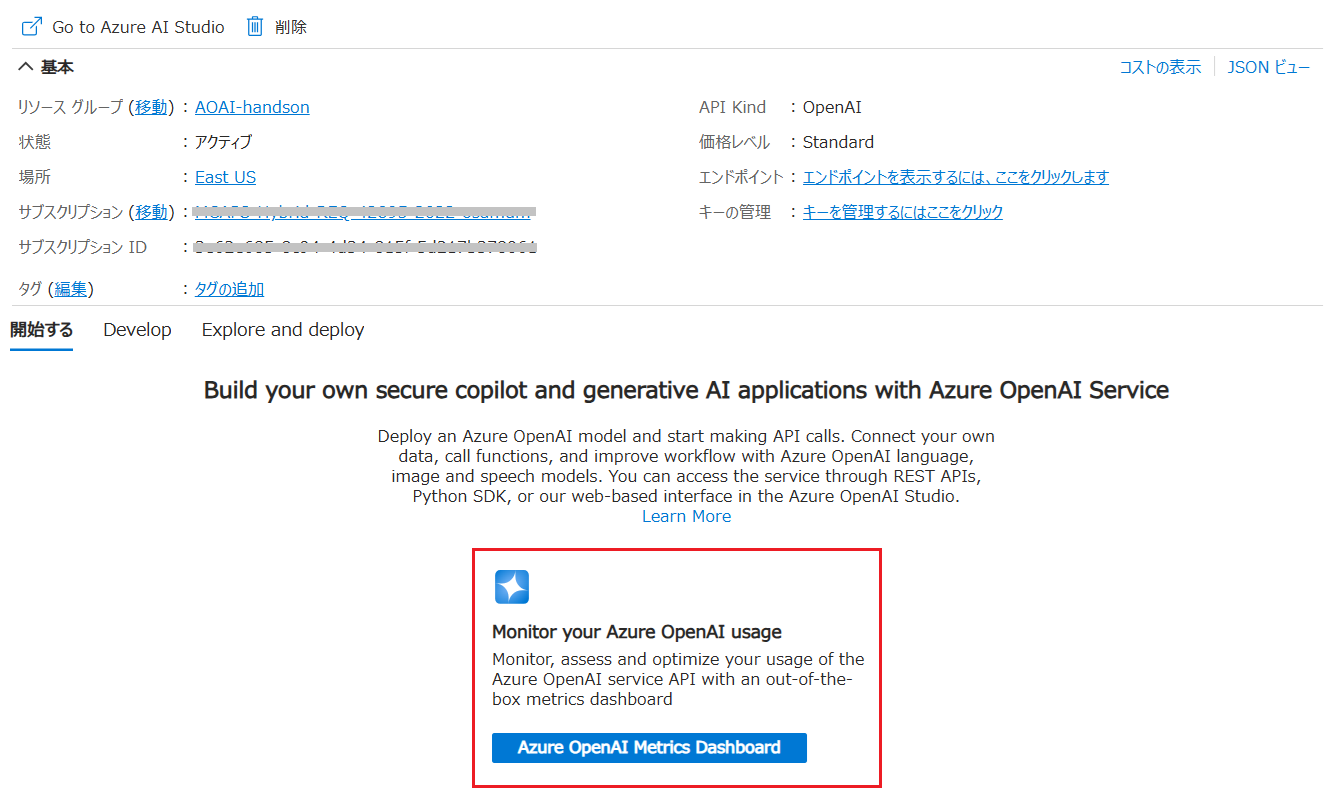
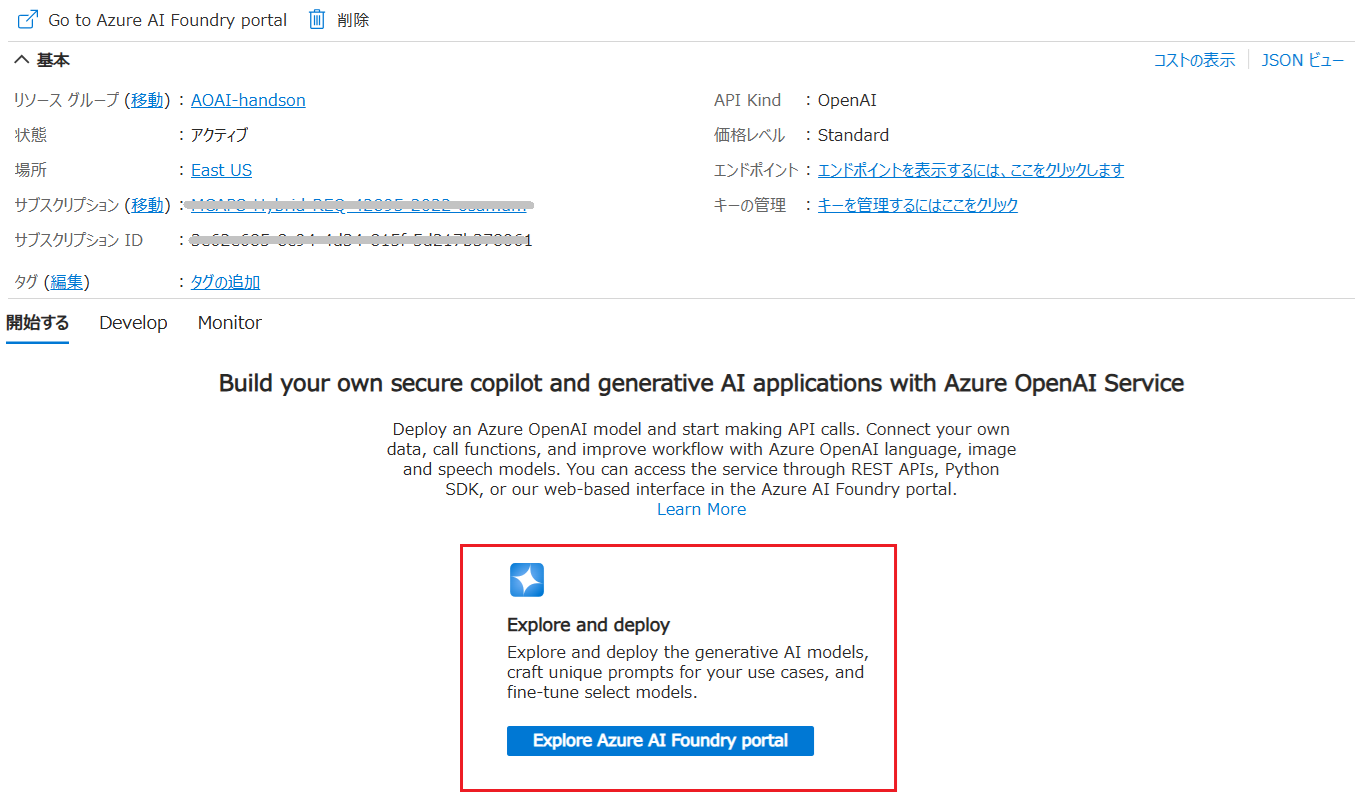
add deploy gpt-image-1

diff --git a/Ex01-4_gpt-image.md b/Ex01-4_gpt-image.md
@@ -1,0 +1,110 @@
+# 演習 1. 4 :  画像生成モデル gpt-image-1 のデプロイ
+
+Microsoft Azure では [演習 1. 4 : 画像生成モデルのデプロイ](Ex01-4.md) でデプロイした DALL-E 3 モデルよりも新しい GPT-image-1 モデルがプレビュー利用可能になっています。
+
+このモデルは  DALL-E に対して以下の点が[改善](https://azure.microsoft.com/en-us/blog/unveiling-gpt-image-1-rising-to-new-heights-with-image-generation-in-azure-ai-foundry/)されています。
+
+* 正確な指示に応答する能力が向上
+* テキストを確実にレンダリング
+* テキストだけでなく画像を入力として指定して編集と描画が可能
+
+使用するには以下のフォームより利用申請が必要です。(※2025 年 5 月時点)
+
+* アクセスの要求: [**制限付きアクセス モデル アプリケーション**](https://aka.ms/oai/gptimage1access)
+
+<br>
+
+## 1. GPT-image-1 モデルのデプロイ 
+
+Azure AI Foundry の画面で画像生成モデル GPT-image-1 デプロイし、API の利用に必要となる API キーとエンドポイントを取得します。
+
+
+
+具体的な手順は以下のとおりです。
+
+\[**手順**\]
+
+1. [Azure AI Foundry](https://ai.azure.com/resource/deployments/) の画面左のメニューバーから \[**デプロイ**\] をクリックします
+
+    ![AOAI Stuido Deploy menue](images/AOAIStudio_menue_Deploy.png)
+
+2. \[**モデル、アプリ、サービスのデプロイを管理する**\] 画面に遷移するので、同画面の \[モデル デプロイ\] タブ内の \[**+ モデルのデプロイ**\] ボタンをクリックし、表示されたドロップダウンメニューから \[**基本モデルをデプロイする**\] を選択します
+
+    ![Deploy Model](images/AOAIStudio_deployModel.png)
+
+3. \[**モデルを選択してください**\] ダイアログボックスが表示されるので、同ダイアログボックス画面左のモデルリストから \[**gpt-image-1**\] を選択し、\[**確認**\] ボタンをクリックします
+
+    ![Select Model](images/AIFoundry_gpt_image1.png)
+
+4. \[**gpt-image-1 の展開**\] 画面に遷移するので、同ダイアログボックス内 **AI リソース** と書かれたラベルの下にあるリソース名をメモしておきます。これがこれからデプロイする GPT-image-1 モデルのデプロイ先のリソースになります。
+   
+   ![gpt-image-1 モデルの展開](images/AIFoundry_deploy_gpt_image1.png)
+
+    デプロイ先は、ダイアログ ボックス内の \[**カスタマイズ**\] ボタンをクリックして変更することができますが、現状、GPT-image-1 モデルが提供されているリージョンの関係もあり、ここまでの演習で使用している Azure OpenAI リソースを選択することはできません。よって今回デプロイしたモデルのエンドポイントのサブドメインは、これのでの演習でデプロイした他の AI モデルのものと異なる(※)ということを覚えておいてください。
+
+    既定のまま、\[**選択したリソースにデプロイする**\] ボタンをクリックします。
+
+    (※メモしたデプロイ先のリソース名.cognitiveservices.azure.com)
+
+5. デプロイした GPT-image-1 モデルのプロパティ画面に遷移するので、画面内の API キーとエンドポイントを各テキスト ボックス右にあるコピーボタンを使用して保持します。
+
+    ![API Key and Endpoint](images/AIFoundry_gpt_image1_apiKey.png)
+
+    なお再度、このページを開くには、Azure AI Foundry の画面左端の **Azure AI Foundry | Azure OpenAI** と書かれたラベルの横にあるドロップダウン ボックスからリソース名を選択します。
+
+    ![OpenAI Resource](images/return_image1_resource.png)
+
+ここのでの手順で新規に gpt-image-1 モデルをデプロイし、API キーとエンドポイントを取得することができました。
+
+<br>
+
+## 2. Azure AI Foundry のプレイグラウンドでの検証
+
+API の利用を検証する前に [Azure AI Foundry のプレイグラウンドを使用して、gpt-image-1 モデルがどのように動作するか](https://devblogs.microsoft.com/foundry/images-playground-may-2025/)を確認します。
+
+具体的な手順は以下のとおりです。
+
+\[**手順**\]
+
+1. [Azure AI Foundry](https://ai.azure.com/foundryResource/overview) の画面左のメニューバーから \[**プレイグラウンド**\] をクリックします。
+
+    プレイグラウンドのタイルが一覧表示されるので、\[画像プレイグラウンド\] タイル内の \[**画像プレイグラウンドを試す**\] ボタンをクリックします。
+
+    ![AOAI Stuido Playground menue](images/AIFoundry_playground_menu.png)
+
+2. \[画像プレイグラウンド\] 画面に遷移するので、画面上部の \[デプロイ\] ドロップダウン ボックスでデプロイした gpt-image-1 のモデルが選択されていることを確認します。
+   
+    ![gpt-image-1 Playground](images/AIFoundry_image_playground.png)
+
+3. \[生成する画像について説明してください\] と書かれたテキスト ボックスに、生成させる画像の説明と、その画像内に表示される何らかの文字を指定する任意のプロンプトを入力して \[**生成**\] ボタンをクリックします。
+
+    ![生成する画像について説明してください](images/AIFoundry_image_playground_resulr.png)
+
+    生成された画像に指定した文字が含まれていることを確認します。
+
+    これまでの DALL-E 3 モデルや他の画像生成 AI モデルでは、プロンプトから直接画像内に文字を含めることができませんでしたが、gpt-image-1 モデルでは、画像内に文字を含めることができるようになっています。
+
+    また、gpt-image-1 モデルでは文字列のプロンプトだけでなく、画像を入力として指定して編集と描画が可能です。
+
+4. 画像の編集と描画を試すために、プロンプト ボックスの画像のアイコン ボタンをクリックして任意の画像ファイルを選択し、任意のプロンプトを入力して \[**生成**\] ボタンをクリックします。
+
+    ![画像の編集と描画](images/AIFoundry_image_playground_EditImage.png)
+
+    画像が編集されていることを確認します。
+
+ここまでの手順で、Azure AI Foundry に gpt-image-1 モデルがデプロイされ、画像プレイグランドでの動作確認が完了しました。
+
+
+<br>
+
+## 次へ
+
+👉 [**演習 2 Azure OpenAI Studio からの AI モデルの利用**](Ex02-0.md) 
+
+<br>
+
+<hr>
+
+👈 [**演習 1. 3 : 埋め込みモデルのデプロイ**](Ex01-3.md) 
+
+🏚 [README に戻る](README.md)

diff --git a/Ex02-0.md b/Ex02-0.md
@@ -1,12 +1,12 @@
-# 演習 2 : Azure OpenAI Studio からの AI モデルの利用
+# 演習 2 : Azure AI Foundry からの AI モデルの利用
 
-この演習では前の演習でデプロイした Azure OpenAI サービスの言語モデルについて Azure OpenAI Studioの[プレイグランド](https://oai.azure.com/resource/playground)画面からの利用方法を体験します。
+この演習では前の演習でデプロイした Azure OpenAI サービスの言語モデルについて Azure AI Foundryの[プレイグランド](https://ai.azure.com/resource/playground)画面からの利用方法を体験します。
 
-Azure OpenAI Studio は、Azure OpenAI サービスを利用するための Web ベースのツールです。Azure OpenAI サービスの API を利用して、言語モデルの学習、デプロイ、評価、およびデバッグを行うことができます。
+Azure AI Foundry は、Azure OpenAI サービスを利用するための Web ベースのツールです。Azure OpenAI サービスの API を利用して、言語モデルの学習、デプロイ、評価、およびデバッグを行うことができます。
 
 この演習ではおもに言語モデルのパラメーター設定、言語モデルのへ問い合わせメッセージの解釈と回答の精度を上げるためのプロンプト エンジニアリングについて学びます。
 
-また、[独自データの追加(On Your Data)](https://learn.microsoft.com/ja-jp/azure/ai-services/openai/concepts/use-your-data?tabs=blob-storage%2Ccopilot) を使用して、Azure OpenAI Studio で作成した言語モデルに独自のデータを追加する方法についても学びます。
+また、[独自データの追加(On Your Data)](https://learn.microsoft.com/ja-jp/azure/ai-services/openai/concepts/use-your-data?tabs=blob-storage%2Ccopilot) を使用して、Azure AI Foundry で作成した言語モデルに独自のデータを追加する方法についても学びます。
 
 オプションの演習として、独自データを追加した言語モデルをアプリケーションとして Azure App Service にデプロイする方法についても試すことができます。
 
@@ -20,7 +20,7 @@ Azure OpenAI Studio は、Azure OpenAI サービスを利用するための Web 
     * [タスク 2 : パラメーターの動作の確認](Ex02-1.md#%E3%82%BF%E3%82%B9%E3%82%AF-2--%E3%83%91%E3%83%A9%E3%83%A1%E3%83%BC%E3%82%BF%E3%83%BC%E3%81%AE%E5%8B%95%E4%BD%9C%E3%81%AE%E7%A2%BA%E8%AA%8D)
 2. [プロンプト エンジニアリング ](Ex02-2.md)
 3. [独自データの追加](Ex02-3.md)
-4. [Azure OpenAI Studio で作成したチャットボットを Azure App Service にデプロイ](Ex02-3.md#%E3%82%AA%E3%83%97%E3%82%B7%E3%83%A7%E3%83%B3--azure-openai-studio-%E3%81%A7%E4%BD%9C%E6%88%90%E3%81%97%E3%81%9F%E3%83%81%E3%83%A3%E3%83%83%E3%83%88%E3%83%9C%E3%83%83%E3%83%88%E3%82%92-azure-app-service-%E3%81%AB%E3%83%87%E3%83%97%E3%83%AD%E3%82%A4)\(オプション\)
+4. [Azure AI Foundry で作成したチャットボットを Azure App Service にデプロイ](Ex02-3.md#%E3%82%AA%E3%83%97%E3%82%B7%E3%83%A7%E3%83%B3--azure-openai-studio-%E3%81%A7%E4%BD%9C%E6%88%90%E3%81%97%E3%81%9F%E3%83%81%E3%83%A3%E3%83%83%E3%83%88%E3%83%9C%E3%83%83%E3%83%88%E3%82%92-azure-app-service-%E3%81%AB%E3%83%87%E3%83%97%E3%83%AD%E3%82%A4)\(オプション\)
 
 <br>
 

diff --git a/README.md b/README.md
@@ -25,7 +25,7 @@ Windows の \[**Start**\] ボタンのように、このハンズオンを実施
 このハンズオンでは実際に環境構築とコーディングを行いながら以下の内容を学びます。
 
 - Azure OpenAI サービス リソースの作成
-- Azure OpenAI Studio からの GPT モデルのデプロイと基本的な操作方法
+- Azure AI Foundry からの GPT モデルのデプロイと基本的な操作方法
 - REST API を使用した GPT モデルの呼び出し
 - Node.js 用 Azure OpenAI ライブラリを使用したボットアプリケーションの作成
 - Function Calling を使用したボットアプリケーションへの任意の関数の統合
@@ -103,15 +103,15 @@ Windows の \[**Start**\] ボタンのように、このハンズオンを実施
 1. [**Azure Open AI リソースの作成**](Ex01-0.md)
 
     - [1.1 : Azure ポータルから Open AI リソースを作成する](Ex01-1.md)
-    - [1.2 : Azure OpenAI Studio から言語モデル gpt-4o-mini のデプロイ](Ex01-2.md)
-    - [1.3 : Azure OpenAI Studio から埋め込みモデル : text-embedding-ada-002 のデプロイ](Ex01-3.md)
-    - [1.4 : Azure OpenAI Studio から画像生成モデル : dall-e-3 のデプロイ](Ex01-4.md)
+    - [1.2 : Azure AI Foundry から言語モデル gpt-4o-mini のデプロイ](Ex01-2.md)
+    - [1.3 : Azure AI Foundry から埋め込みモデル : text-embedding-ada-002 のデプロイ](Ex01-3.md)
+    - [1.4 : Azure AI Foundry から画像生成モデル : dall-e-3 のデプロイ](Ex01-4.md)
 	    
-2. [**Azure OpenAI Studio からの AI モデルの利用**](Ex02-0.md)
+2. [**Azure AI Foundry からの AI モデルの利用**](Ex02-0.md)
     - [2.1 : システムメッセージとパラメーター設定](Ex02-1.md)
     - [2.2 :プロンプト エンジニアリング ](Ex02-2.md)
     - [2.3 : 独自データの追加](Ex02-3.md)
-    - [オプション : Azure OpenAI Studio で作成したチャットボットを Azure App Service にデプロイ](Ex02-3.md#%E3%82%AA%E3%83%97%E3%82%B7%E3%83%A7%E3%83%B3--azure-openai-studio-%E3%81%A7%E4%BD%9C%E6%88%90%E3%81%97%E3%81%9F%E3%83%81%E3%83%A3%E3%83%83%E3%83%88%E3%83%9C%E3%83%83%E3%83%88%E3%82%92-azure-app-service-%E3%81%AB%E3%83%87%E3%83%97%E3%83%AD%E3%82%A4)
+    - [オプション : Azure AI Foundry で作成したチャットボットを Azure App Service にデプロイ](Ex02-3.md#%E3%82%AA%E3%83%97%E3%82%B7%E3%83%A7%E3%83%B3--azure-openai-studio-%E3%81%A7%E4%BD%9C%E6%88%90%E3%81%97%E3%81%9F%E3%83%81%E3%83%A3%E3%83%83%E3%83%88%E3%83%9C%E3%83%83%E3%83%88%E3%82%92-azure-app-service-%E3%81%AB%E3%83%87%E3%83%97%E3%83%AD%E3%82%A4)
 
 3. [**Azure Open AI サービスとアプリケーションの統合**](Ex03-0.md)
     - [3.1 : Azure Open AI サービスの API 利用](Ex03-1.md)

diff --git a/Ex01-2.md b/Ex01-2.md
@@ -1,16 +1,16 @@
-# 演習 1. 2 : Azure OpenAI Studio への言語モデルのデプロイ
+# 演習 1. 2 : Azure AI Foundry への言語モデルのデプロイ
 
-Azure OpenAI が提供する AI サービスを利用するには、Azure OpenAI Studio にモデルをデプロイする必要があります。
+Azure OpenAI が提供する AI サービスを利用するには、Azure AI Foundry にモデルをデプロイする必要があります。
 
 具体的な手順は以下のとおりです。
 
 \[**手順**\]
 
-1. 前の手順で作成した Azure OpenAI リソースの概要画面で、\[**Explore and deploy**\] ボックス内の \[**Go to Azure OpenAI Studio**\]ボタンをクリックします
+1. 前の手順で作成した Azure OpenAI リソースの概要画面で、\[**Explore and deploy**\] ボックス内の \[**Explore Azure AI Foundry Portal**\]ボタンをクリックします
 
     ![Open AI Studio](images/DeployModel_OpenAIStudio.png)
 
-2. Azure OpenAI Studio が開かれるので、画面左のメニューバーから \[**デプロイ**\] をクリックします
+2. Azure AI Foundry が開かれるので、画面左のメニューバーから \[**デプロイ**\] をクリックします
 
     ![AOAI Stuido Deploy menu](images/AOAIStudio_menue_Deploy.png)
 
@@ -42,7 +42,7 @@ Azure OpenAI が提供する AI サービスを利用するには、Azure OpenAI
 
     ![Chat with GPT model](images/AOAIStudio_Playground_Chat.png)
 
-ここまでの手順で、Azure OpenAI Studio に GPT-4 モデルがデプロイされ、チャットプレイグランドでの動作確認が完了しました。
+ここまでの手順で、Azure AI Foundry に GPT-4 モデルがデプロイされ、チャットプレイグランドでの動作確認が完了しました。
 
 <!--
 

diff --git a/Ex01-4.md b/Ex01-4.md
@@ -4,11 +4,15 @@
 
 このハンズオンでは [DALL-E 3](https://learn.microsoft.com/ja-jp/azure/ai-services/openai/concepts/models#dall-e) モデルを使用します。
 
+> [!NOTE]
+> 現在、DALL-E 3 モデルよりも新しい GPT-image-1 モデルがプレビュー利用可能になっています。このモデルを使用する場合は以下の演習を実施はてください。
+> - [**演習 1. 4 :  画像生成モデル gpt-image-1 のデプロイ**](Ex01-4_gpt-image.md)
+
 具体的な手順は以下のとおりです。
 
 \[**手順**\]
 
-1. [Azure OpenAI Studio](https://oai.azure.com/resource/deployments/) の画面左のメニューバーから \[**デプロイ**\] をクリックします
+1. [Azure AI Foundry](https://ai.azure.com/resource/deployments/) の画面左のメニューバーから \[**デプロイ**\] をクリックします
 
     ![AOAI Stuido Deploy menue](images/AOAIStudio_menue_Deploy.png)
 
@@ -34,13 +38,13 @@
 
     ![Generate with Dall-e model](images/AOAIStudio_Playground_Dalle.png)
 
-ここまでの手順で、Azure OpenAI Studio に Dall-e  モデルがデプロイされ、画像プレイグランドでの動作確認が完了しました。
+ここまでの手順で、Azure AI Foundry に Dall-e  モデルがデプロイされ、画像プレイグランドでの動作確認が完了しました。
 
 <br>
 
 ## 次へ
 
-👉 [**演習 2 Azure OpenAI Studio からの AI モデルの利用**](Ex02-0.md) 
+👉 [**演習 2 Azure AI Foundry からの AI モデルの利用**](Ex02-0.md) 
 
 <br>
 

diff --git a/Ex01-3.md b/Ex01-3.md
@@ -8,7 +8,7 @@
 
 \[**手順**\]
 
-1. Azure OpenAI Studio の画面左のメニューバーから \[**デプロイ**\] をクリックします
+1. Azure AI Foundry の画面左のメニューバーから \[**デプロイ**\] をクリックします
 
     ![AOAI Stuido Deploy menue](images/AOAIStudio_menue_Deploy.png)
 
@@ -26,7 +26,7 @@
 
     デプロイはすぐに完了し、デプロイしたモデルの概要画面が表示されます。
 
-ここまでの手順で、Azure OpenAI Studio に埋め込みモデルがデプロイされました。
+ここまでの手順で、Azure AI Foundry に埋め込みモデルがデプロイされました。
 
 この埋め込みモデルは、[**演習 2.3 : 独自データの追加**](Ex02-3.md) と [**演習 3.4 : RAG (Retrieval-Augmented Generation) の実装**](Ex03-4.md) の演習で使用します。
 
@@ -40,6 +40,6 @@
 
 <hr>
 
-👈 [**演習 1. 2 : Azure OpenAI Studio への言語モデルのデプロイ**](Ex01-2.md) 
+👈 [**演習 1. 2 : Azure AI Foundry への言語モデルのデプロイ**](Ex01-2.md) 
 
 🏚 [README に戻る](README.md)

diff --git a/Ex03-7.md b/Ex03-7.md
@@ -39,7 +39,7 @@ OpenAI の GPT モデルには gpt-35-turbo-1106 と gpt-4-1106-preview から [
 
     ![言語モデルのバージョンの確認](images/check-model-v.png)
 
-    モデルのバージョンは Azure OpenAI Studio の画左にある \[[デプロイ](https://oai.azure.com/resource/deployments)\] メニューをクリックすると表示されるデプロイ済モデルの一覧から確認することができます。
+    モデルのバージョンは Azure AI Foundry の画左にある \[[デプロイ](https://oai.azure.com/resource/deployments)\] メニューをクリックすると表示されるデプロイ済モデルの一覧から確認することができます。
 
     この演習では価格の安い gpt-4o-mini を利用していますが、2024 年 8 月現在、Azure OpenAI サービスでは gpt-4o-mini は 2024-07-18 しかインストールできないので、gpt-4o-2024-08-06 をデプロイして使用してください。
 
